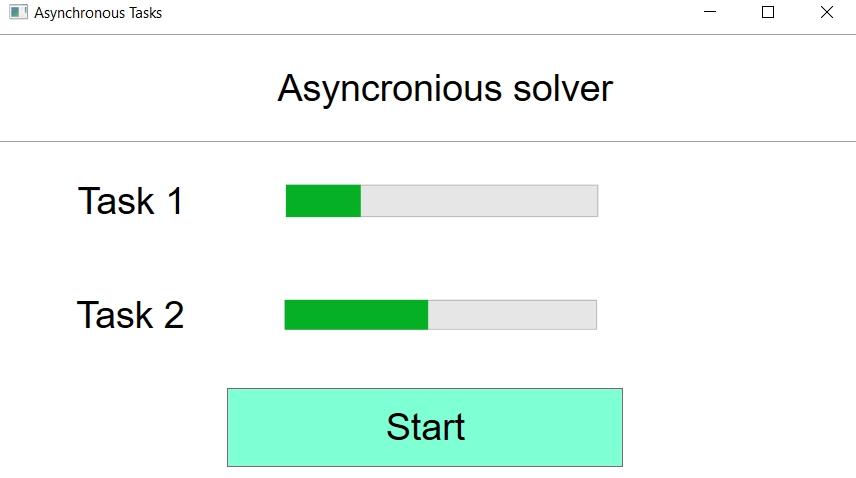
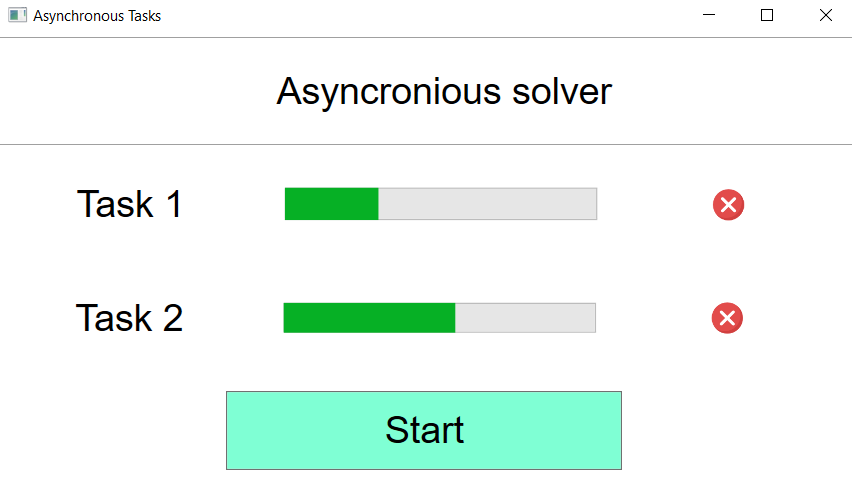
changing png

diff --git a/MainWindow.xaml b/MainWindow.xaml
@@ -25,18 +25,18 @@
 
 
 
-        <StackPanel Grid.Row="1" Orientation="Horizontal" Margin="34,25,33,31" Grid.Column="1">
+        <StackPanel Grid.Row="1" Orientation="Horizontal" Margin="34,31,33,31" Grid.Column="1">
             <TextBlock Name="Txt1"  VerticalAlignment="Center" Text="Task 1"/>
             <ProgressBar x:Name="ProgressBar2" Width="250" Margin="80,0" Maximum="100" Height="26"/>
-            <Button Width="40" Height="40" Click="Button_Click_Stop2" Background="White" BorderThickness="0">
-                <Image Source="Resources/cancel.png"/>
+            <Button Width="50" Height="30" Click="Button_Click_Stop2" Background="White" BorderThickness="0">
+                <Image Source="Resources/cancel.png" Height="25" Width="25"/>
             </Button>
         </StackPanel>
-        <StackPanel Grid.Row="2" Orientation="Horizontal" Margin="33,31,33,22" Grid.Column="1">
+        <StackPanel Grid.Row="2" Orientation="Horizontal" Margin="33,31,33,30" Grid.Column="1">
             <TextBlock VerticalAlignment="Center" Text="Task 2"/>
             <ProgressBar x:Name="ProgressBar1" Width="250" Margin="80,0" Maximum="100" Height="24"/>
-            <Button Width="40" Height="40" Click="Button_Click_Stop2" Background="White" BorderThickness="0">
-                <Image Source="Resources/cancel.png"/>
+            <Button Width="50" Height="30" Click="Button_Click_Stop2" Background="White" BorderThickness="0">
+                <Image Source="Resources/cancel.png" Height="25" Width="25"/>
             </Button>
         </StackPanel>
         <Button Grid.Row="3" Content="Start" Click="Button_Click_Start" Margin="154,14,187,14" Background="Aquamarine" Grid.Column="1"/>
